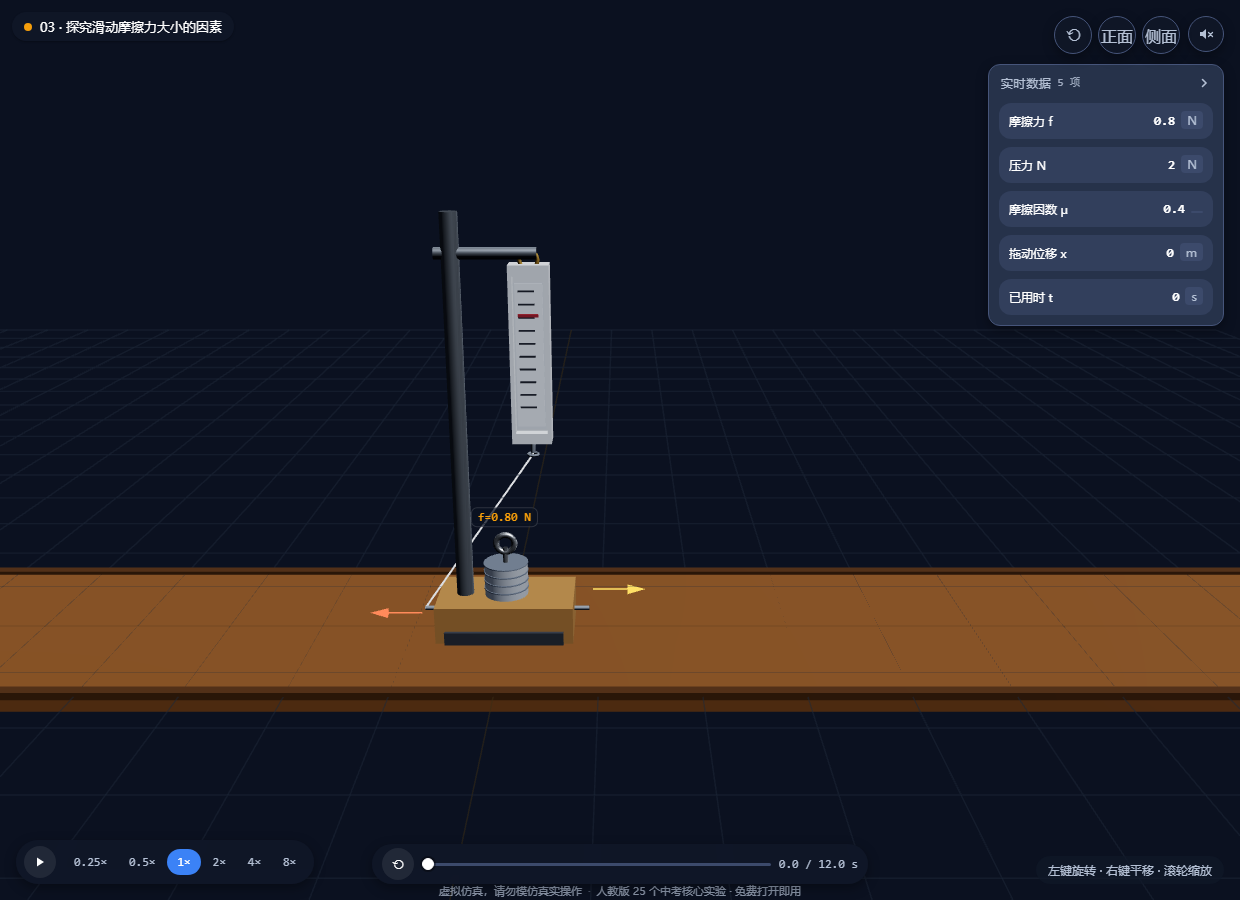
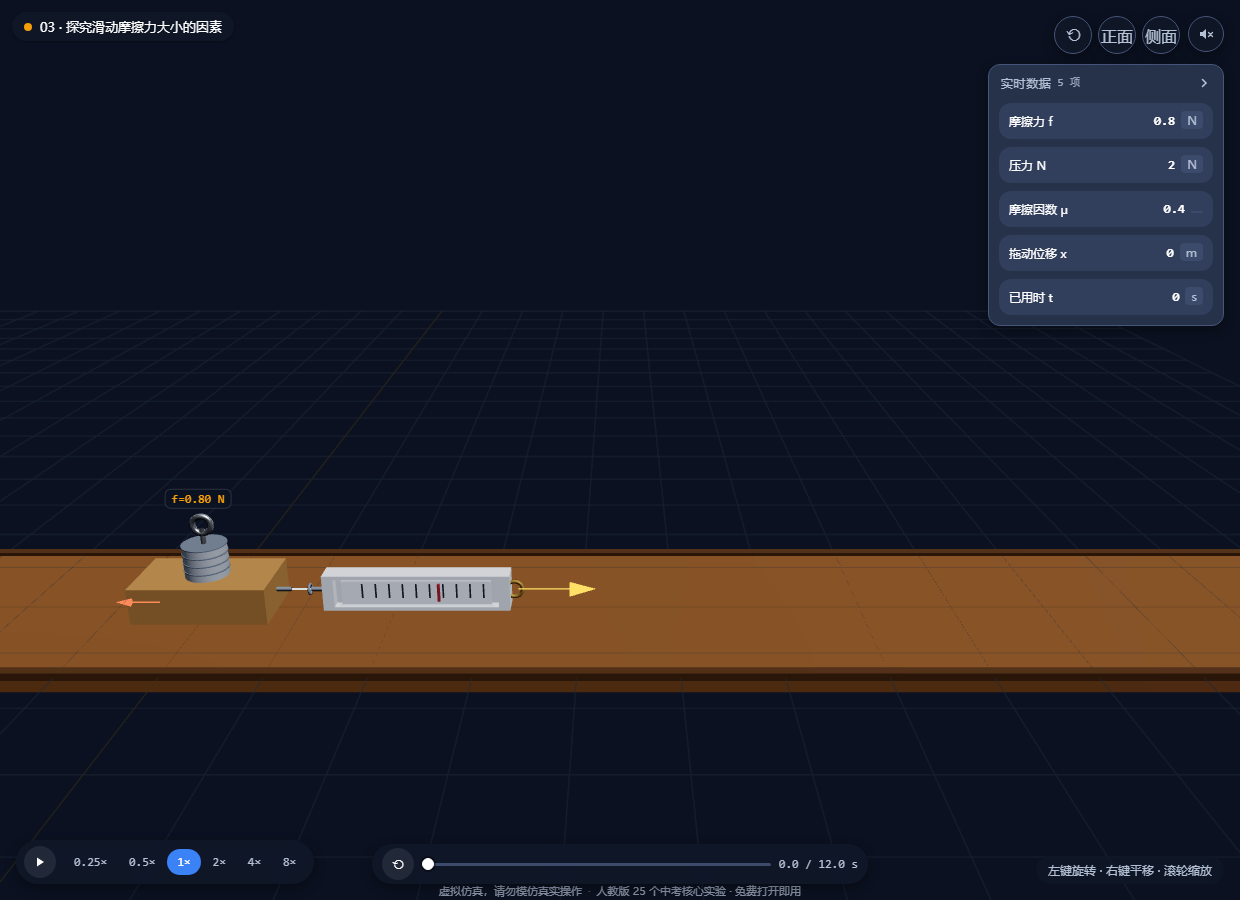
A3 side placement true 90 degree flip

Changed region(s): [[0.0, 0.2178, 1.0, 0.8089]]

diff --git a/docs/app/exp/mechanics.js b/docs/app/exp/mechanics.js
@@ -715,8 +715,9 @@ const A3 = {
     this.fArrow = mkArrow('#ff8a5a'); ctx.scene.add(this.fArrow);
     this.lbl = mkLabel('', C); ctx.scene.add(this.lbl);
     this.x = 0;
+    this._applyArea();
     this._rebuildWeights();
-    this.weightsG.position.set(this.x, 0.20, 0);
+    this.weightsG.position.set(this.x, this._blockH, 0);
   },
   _rebuildWeights() {
     const cnt = clamp(Math.round((this.p.normal || 2) / 0.5), 1, 10);
@@ -749,9 +750,24 @@ const A3 = {
     g.traverse(o => { if (o.isMesh) { o.castShadow = false; o.receiveShadow = false; } });
     this._weightsH = cnt * H + 0.12;
   },
+  // 平放 / 侧放：真 90° 绕长边翻（不缩放）。底面始终贴桌，顶部高度与侧钩高度随之变化
+  _applyArea() {
+    const side = this.p && this.p.area === 'small';
+    if (side) {
+      this.block.rotation.x = Math.PI / 2;
+      this._blockY = 0.20; this._blockZ = -0.10;   // 翻后底面上移到 y=0、z 居中
+      this._blockH = 0.40;                          // 底面 0.72×0.20，高 0.40
+      this._hookY = 0.20; this._hookZ = 0.01;       // 侧钩升到半高 0.20
+    } else {
+      this.block.rotation.x = 0;
+      this._blockY = 0; this._blockZ = 0;
+      this._blockH = 0.20;                          // 底面 0.72×0.40，高 0.20
+      this._hookY = 0.11; this._hookZ = 0;
+    }
+  },
   onParam(k, v) {
     this.p[k] = v;
-    if (k === 'area') this.block.scale.set(v === 'big' ? 1 : 0.55, 1, v === 'big' ? 1 : 0.7);
+    if (k === 'area') this._applyArea();
     this.recompute();
   },
   recompute() {
@@ -768,26 +784,28 @@ const A3 = {
     const d = this.duration || 8;
     this._t = Math.min(Math.max(Number.isFinite(tPres) ? tPres : 0, 0), d);
     this.x = Math.min(v * this._t, 4);
-    this.block.position.set(this.x, 0.0, 0);
-    if (this.weightsG) this.weightsG.position.set(this.x, 0.20, 0);
-    // 测力计水平放置：整体随木块平移，底部挂钩正对木块右侧挂钩，短水平绳相连
-    const sx = this.block.scale ? this.block.scale.x : 1;
-    const blockHookX = this.x + 0.44 * sx;         // 木块右侧挂钩外端
+    this.block.position.set(this.x, this._blockY, this._blockZ);
+    if (this.weightsG) this.weightsG.position.set(this.x, this._blockH, 0);
+    // 测力计水平放置：整体随木块平移，底部挂钩正对木块侧钩，短水平绳相连
+    // 绳高/侧钩高随「平放/侧放」重算（侧放块高 0.40、侧钩在 0.20），始终保持水平
+    const sx = 1;
+    const blockHookX = this.x + 0.44 * sx;         // 木块右侧挂钩外端（绕长边翻不改变 x）
     const SH = 1.0, hookLocal = 0.58 * SH;         // 测力计底部挂钩到组中心的水平距离
     const gap = 0.10;                               // 短水平绳长度
     const scaleX = blockHookX + gap + hookLocal;    // 让底部挂钩落在木块右钩右侧 gap 处
-    this.scaleG.position.set(scaleX, 0.11, 0);
-    this.hook.geometry.setPositions([blockHookX, 0.11, 0, scaleX - hookLocal, 0.11, 0]);
+    const hy = this._hookY, hz = this._hookZ, topY = this._blockH;
+    this.scaleG.position.set(scaleX, hy, hz);
+    this.hook.geometry.setPositions([blockHookX, hy, hz, scaleX - hookLocal, hy, hz]);
     this.hook.computeLineDistances();
     // 指针：f 越大越靠挂钩端；f=0.2/0.8/2.0 位置差明显（刻度清楚）
     setSpringScale(this.scaleG, clamp(this.f / 2.2, 0, 1));
     // 拉力箭头（手向右拉测力计）
     setArrow(this.pullArrow, new THREE.Vector3(1, 0, 0), 0.42);
-    this.pullArrow.position.set(scaleX + 0.54, 0.11, 0);
+    this.pullArrow.position.set(scaleX + 0.54, hy, hz);
     // 摩擦力箭头（作用在木块上、向左，与运动方向相反）
     setArrow(this.fArrow, new THREE.Vector3(-1, 0, 0), clamp(this.f * 0.30, 0.22, 0.85));
     this.fArrow.position.set(this.x - 0.28, 0.03, 0);
-    this.lbl.position.set(this.x, clamp(0.20 + (this._weightsH || 0) + 0.13, 0.48, 0.86), 0);
+    this.lbl.position.set(this.x, clamp(topY + (this._weightsH || 0) + 0.13, topY + 0.22, topY + 0.72), 0);
     setLabel(this.lbl, 'f=' + this.f.toFixed(2) + ' N');
   },
   step(dt) { this.drawAt((this._t || 0) + Math.max(dt, 0)); },

diff --git a/release/physics-3d-lab/exp/mechanics.js b/release/physics-3d-lab/exp/mechanics.js
@@ -715,8 +715,9 @@ const A3 = {
     this.fArrow = mkArrow('#ff8a5a'); ctx.scene.add(this.fArrow);
     this.lbl = mkLabel('', C); ctx.scene.add(this.lbl);
     this.x = 0;
+    this._applyArea();
     this._rebuildWeights();
-    this.weightsG.position.set(this.x, 0.20, 0);
+    this.weightsG.position.set(this.x, this._blockH, 0);
   },
   _rebuildWeights() {
     const cnt = clamp(Math.round((this.p.normal || 2) / 0.5), 1, 10);
@@ -749,9 +750,24 @@ const A3 = {
     g.traverse(o => { if (o.isMesh) { o.castShadow = false; o.receiveShadow = false; } });
     this._weightsH = cnt * H + 0.12;
   },
+  // 平放 / 侧放：真 90° 绕长边翻（不缩放）。底面始终贴桌，顶部高度与侧钩高度随之变化
+  _applyArea() {
+    const side = this.p && this.p.area === 'small';
+    if (side) {
+      this.block.rotation.x = Math.PI / 2;
+      this._blockY = 0.20; this._blockZ = -0.10;   // 翻后底面上移到 y=0、z 居中
+      this._blockH = 0.40;                          // 底面 0.72×0.20，高 0.40
+      this._hookY = 0.20; this._hookZ = 0.01;       // 侧钩升到半高 0.20
+    } else {
+      this.block.rotation.x = 0;
+      this._blockY = 0; this._blockZ = 0;
+      this._blockH = 0.20;                          // 底面 0.72×0.40，高 0.20
+      this._hookY = 0.11; this._hookZ = 0;
+    }
+  },
   onParam(k, v) {
     this.p[k] = v;
-    if (k === 'area') this.block.scale.set(v === 'big' ? 1 : 0.55, 1, v === 'big' ? 1 : 0.7);
+    if (k === 'area') this._applyArea();
     this.recompute();
   },
   recompute() {
@@ -768,26 +784,28 @@ const A3 = {
     const d = this.duration || 8;
     this._t = Math.min(Math.max(Number.isFinite(tPres) ? tPres : 0, 0), d);
     this.x = Math.min(v * this._t, 4);
-    this.block.position.set(this.x, 0.0, 0);
-    if (this.weightsG) this.weightsG.position.set(this.x, 0.20, 0);
-    // 测力计水平放置：整体随木块平移，底部挂钩正对木块右侧挂钩，短水平绳相连
-    const sx = this.block.scale ? this.block.scale.x : 1;
-    const blockHookX = this.x + 0.44 * sx;         // 木块右侧挂钩外端
+    this.block.position.set(this.x, this._blockY, this._blockZ);
+    if (this.weightsG) this.weightsG.position.set(this.x, this._blockH, 0);
+    // 测力计水平放置：整体随木块平移，底部挂钩正对木块侧钩，短水平绳相连
+    // 绳高/侧钩高随「平放/侧放」重算（侧放块高 0.40、侧钩在 0.20），始终保持水平
+    const sx = 1;
+    const blockHookX = this.x + 0.44 * sx;         // 木块右侧挂钩外端（绕长边翻不改变 x）
     const SH = 1.0, hookLocal = 0.58 * SH;         // 测力计底部挂钩到组中心的水平距离
     const gap = 0.10;                               // 短水平绳长度
     const scaleX = blockHookX + gap + hookLocal;    // 让底部挂钩落在木块右钩右侧 gap 处
-    this.scaleG.position.set(scaleX, 0.11, 0);
-    this.hook.geometry.setPositions([blockHookX, 0.11, 0, scaleX - hookLocal, 0.11, 0]);
+    const hy = this._hookY, hz = this._hookZ, topY = this._blockH;
+    this.scaleG.position.set(scaleX, hy, hz);
+    this.hook.geometry.setPositions([blockHookX, hy, hz, scaleX - hookLocal, hy, hz]);
     this.hook.computeLineDistances();
     // 指针：f 越大越靠挂钩端；f=0.2/0.8/2.0 位置差明显（刻度清楚）
     setSpringScale(this.scaleG, clamp(this.f / 2.2, 0, 1));
     // 拉力箭头（手向右拉测力计）
     setArrow(this.pullArrow, new THREE.Vector3(1, 0, 0), 0.42);
-    this.pullArrow.position.set(scaleX + 0.54, 0.11, 0);
+    this.pullArrow.position.set(scaleX + 0.54, hy, hz);
     // 摩擦力箭头（作用在木块上、向左，与运动方向相反）
     setArrow(this.fArrow, new THREE.Vector3(-1, 0, 0), clamp(this.f * 0.30, 0.22, 0.85));
     this.fArrow.position.set(this.x - 0.28, 0.03, 0);
-    this.lbl.position.set(this.x, clamp(0.20 + (this._weightsH || 0) + 0.13, 0.48, 0.86), 0);
+    this.lbl.position.set(this.x, clamp(topY + (this._weightsH || 0) + 0.13, topY + 0.22, topY + 0.72), 0);
     setLabel(this.lbl, 'f=' + this.f.toFixed(2) + ' N');
   },
   step(dt) { this.drawAt((this._t || 0) + Math.max(dt, 0)); },

diff --git a/release/physics-3d-lab/sw.js b/release/physics-3d-lab/sw.js
@@ -1,5 +1,5 @@
 /* Service Worker：整站本地缓存 —— 打开过一次后，全部资源走本地缓存，秒开、断网也能用。
- * 版本号 332065d 由 tools/make-release.ps1 在发布时替换为 git 短哈希：
+ * 版本号 6057b1f 由 tools/make-release.ps1 在发布时替换为 git 短哈希：
  * 每次发布自动换缓存名；新 SW 安装完成后清掉旧缓存，保证新旧版本绝不混用。
  * 策略（为发布一致性 + 跨境提速而设计）：
  *   - 安装：容错 precache 核心清单（某项失败不影响整体安装），skipWaiting 立即接管
@@ -8,7 +8,7 @@
  *     「新 HTML + 旧 JS」的混合状态（发布后第一次打开仍是旧版，刷新一次即新版）
  *   - 其他同源 GET：cache-first，miss 才走网络并写入缓存
  */
-const VERSION = '332065d';
+const VERSION = '6057b1f';
 const CACHE = 'phlab-' + VERSION;
 
 const PRECACHE = [

diff --git a/docs/app/stitch-a3-area.py b/docs/app/stitch-a3-area.py
@@ -1,0 +1,38 @@
+from PIL import Image, ImageDraw, ImageFont
+import os
+base = os.path.join("docs", "app", "shots", "a3-area")
+def stitch(items, out, header_prefix=""):
+    imgs = [Image.open(os.path.join(base, f)).convert("RGB") for f, _ in items]
+    w = min(i.width for i in imgs); h = min(i.height for i in imgs)
+    imgs = [i.crop((0, 0, w, h)) for i in imgs]
+    hdr = 46
+    font = None
+    for fp in ["C:/Windows/Fonts/msyhbd.ttc", "C:/Windows/Fonts/msyh.ttc", "C:/Windows/Fonts/simhei.ttf", "C:/Windows/Fonts/arialbd.ttf"]:
+        try:
+            font = ImageFont.truetype(fp, 26); break
+        except Exception:
+            continue
+    if font is None:
+        font = ImageFont.load_default()
+    canvas = Image.new("RGB", (w * len(imgs), h + hdr), (245, 247, 250))
+    d = ImageDraw.Draw(canvas)
+    for idx, (img, (_, label)) in enumerate(zip(imgs, items)):
+        x0 = idx * w
+        canvas.paste(img, (x0, hdr))
+        d.rectangle([x0, 0, x0 + w, hdr], fill=(30, 42, 58))
+        d.text((x0 + 16, 10), header_prefix + label, fill=(240, 244, 250), font=font)
+        if idx > 0:
+            d.line([(x0, 0), (x0, h + hdr)], fill=(120, 130, 145), width=2)
+    canvas.save(out); print("SAVED", out, canvas.size)
+
+stitch([
+    ("a3-area-flat-N2.png", "平放 N=2  底面0.72x0.40 高0.20"),
+    ("a3-area-side-N2.png", "侧放 N=2  底面0.72x0.20 高0.40"),
+    ("a3-area-side-N2-top.png", "侧放 N=2 顶视"),
+], os.path.join(base, "a3-area-compare-flat-side.png"))
+
+stitch([
+    ("a3-area-side-p01-t0.png",  "t=0s  x=0.0m"),
+    ("a3-area-side-p01-t6.png",  "t=6s  x=0.6m"),
+    ("a3-area-side-p01-t12.png", "t=12s x=1.2m"),
+], os.path.join(base, "a3-area-side-hline-compare.png"), "侧放 pull=0.1  ")

diff --git a/docs/app/ui-probe-report.md b/docs/app/ui-probe-report.md
@@ -1,6 +1,6 @@
 # UI→引擎通路探针报告
 
-时间：2026-11-22T04:57:09.591Z
+时间：2026-11-22T05:43:07.372Z
 方法：包裹每个实验的 exp.onParam 计数；滑杆用原生 input 事件、枚举用真实点击驱动；每控件触发后等 2 帧再读计数。
 
 | 实验 | 控件 | 类型 | onParam 送达 | 判定 |
